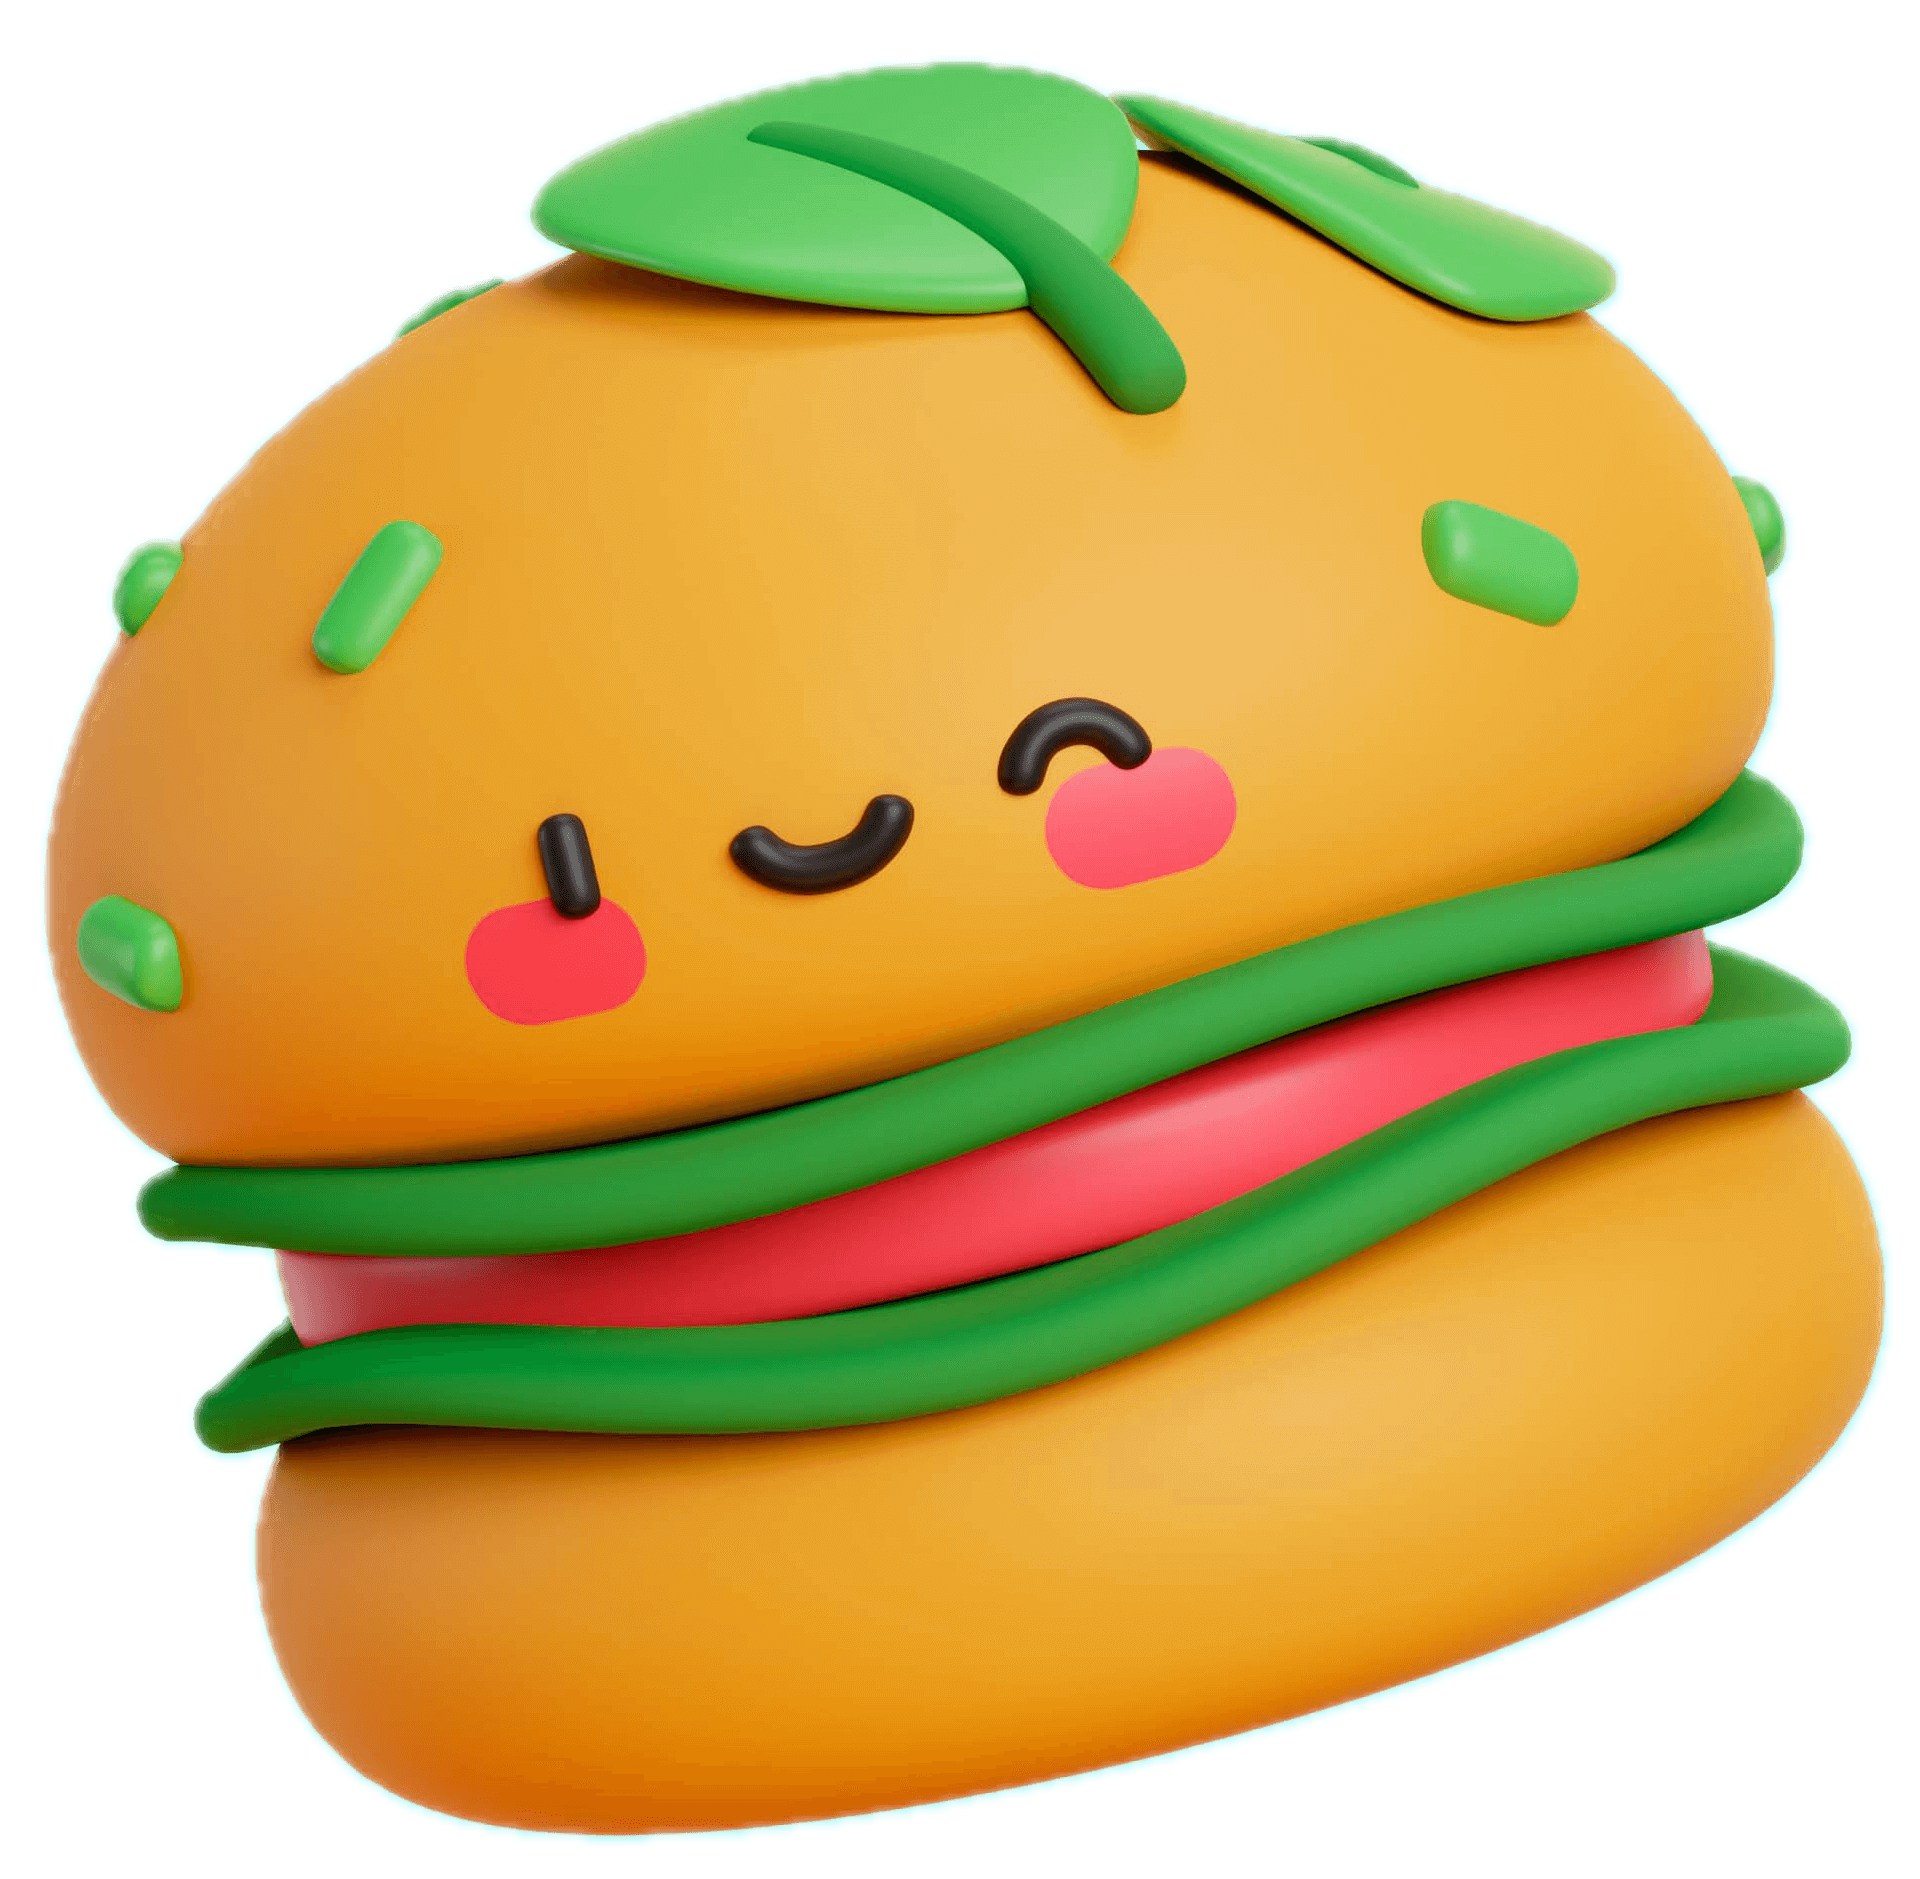
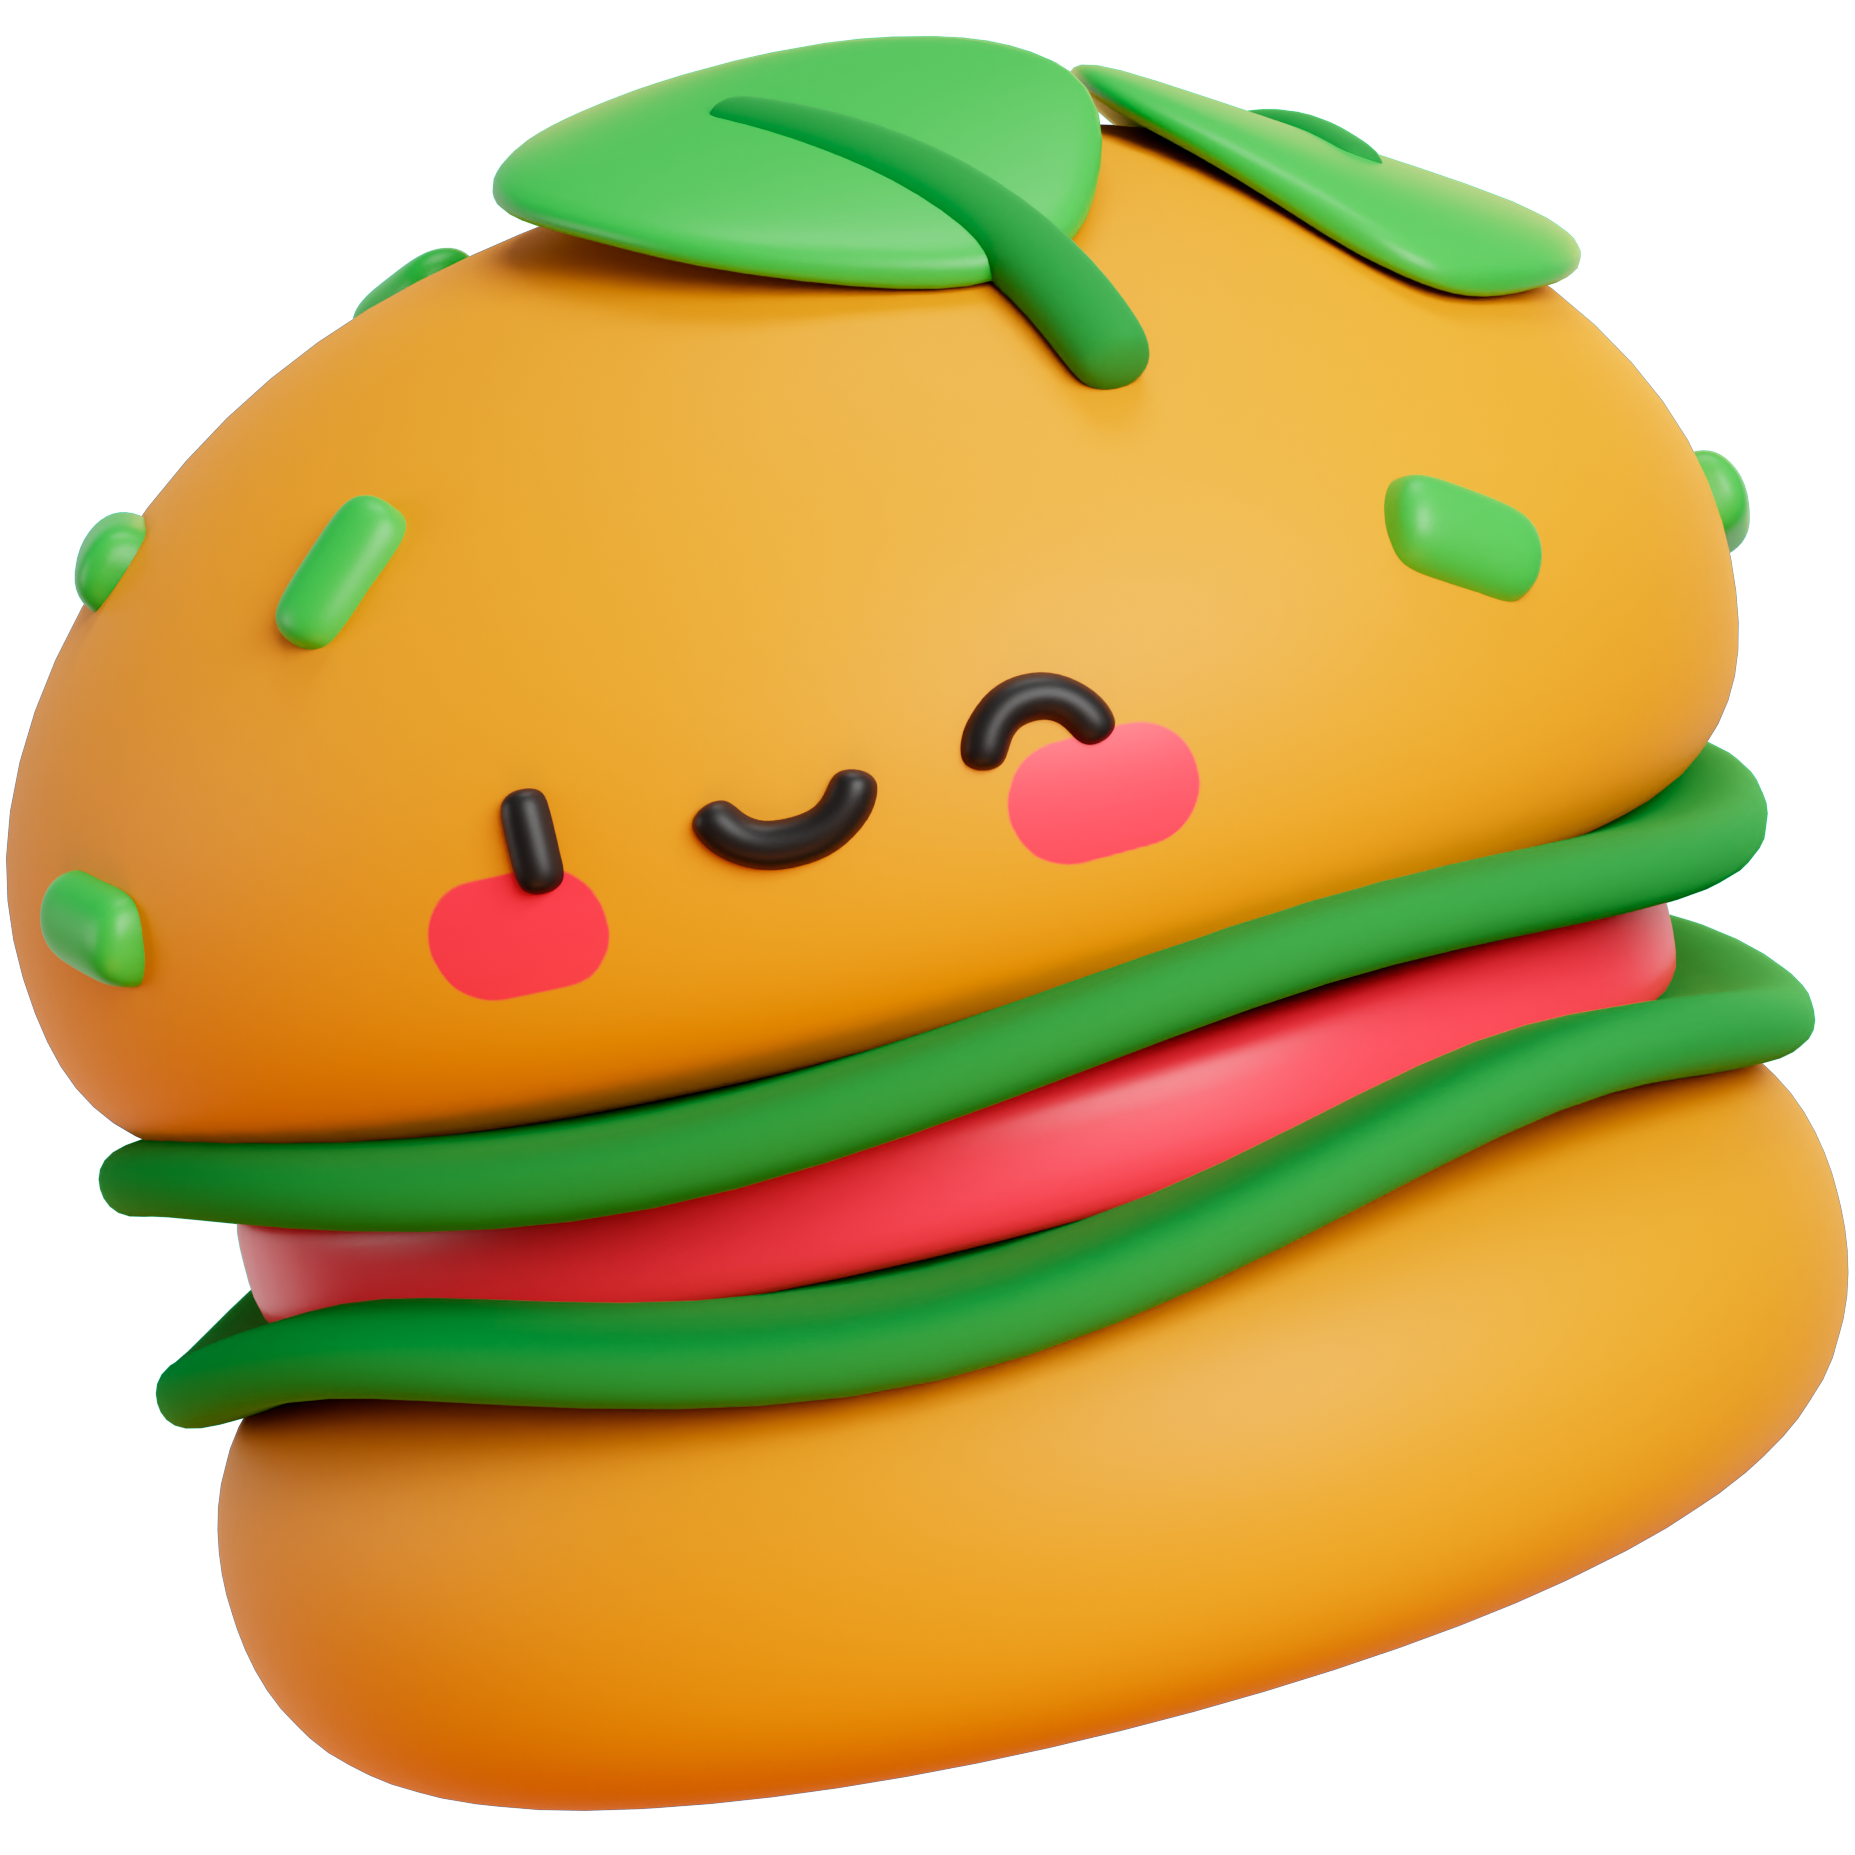
Day 39

diff --git a/src/features/recipes/recipes-banners/RecipesBanners.tsx b/src/features/recipes/recipes-banners/RecipesBanners.tsx
@@ -1,3 +1,94 @@
+import { Button } from "@/shared/components/ui/button";
+import { Plus, Utensils } from "lucide-react";
+import Image from "next/image";
+
+
 export function RecipesBanners() {
-    return <div>RecipesBanners</div>
+    return (
+        <div className="mb-5 grid grid-cols-[2.5fr_1fr] gap-5">
+            <div className="from-primary-dark to-primary relative rounded-3xl bg-linear-to-r px-8 py-4 text-white">
+                <div className="absolute -bottom-1 -left-6">
+                    <Image
+                        src="/emotions/burger.png"
+                        alt="Burger"
+                        width={170}
+                        height={140}
+                        className="h-auto w-[170px]"
+                        draggable={false}
+                        priority
+                    />
+                </div>
+
+                <div className="ml-[130px] flex items-start justify-between gap-6">
+                    <div className="min-w-0">
+                        <h2 className="text-4xl leading-none font-black tracking-[-0.02em] italic">Got a Recipe That Rocks?</h2>
+
+                        <p className="mt-2 text-sm text-white/80">
+                            Share It &amp; Shine! Your recipe might just become the next big hit!
+                        </p>
+
+                        <div className="mt-4 flex flex-wrap gap-2">
+                            {[
+                                'Gain Recognition',
+                                'Inspire Others',
+                                'Showcase Your Skills'
+                            ].map(item => (
+                                <span
+                                    key={item}
+                                    className="rounded-3xl bg-white/12 px-3 py-1 text-sm font-medium backdrop-blur-xs">{item}</span>
+                            ))}
+                        </div>
+                    </div>
+
+                    <Button
+                        type="button"
+                        variant="soft"
+                        className="shrink-0 rounded-3xl bg-white px-5 text-black hover:bg-white/90"
+                    >
+                        <Plus />
+                        Add Recipe        
+                    </Button>
+                </div>
+            </div>
+
+            <div className="flex flex-col justify-between rounded-3xl bg-white px-5 py-4">
+                <div className="flex items-center gap-2 font-semibold text-black text-lg">
+                    <Utensils
+                        size={20}
+                        className="opacity-60"
+                    />
+                    <span>Your Recipes</span>
+                </div>
+
+                <div className="mt-6 flex items-end justify-between gap-4">
+                    <div className="flex items-end gap-2">
+                        <span className="text-4xl leading-none font-black tracking-[-0.04em] italic">12</span>
+                        <span className="text-black/45">Created</span>
+                    </div>
+
+                    <div className="flex -space-x-3">
+                        {[
+                            '/images/default-avatar.png',
+                            '/images/default-avatar.png',
+                            '/images/default-avatar.png',
+                            '/images/default-avatar.png'
+                        ].map((src, index) => (
+                            <div
+                                key={src + index}
+                                className="relative size-9 overflow-hidden rounded-full border-2 border-white bg-white"
+                            >
+                                <Image
+                                    src={src}
+                                    alt={`Recipe author ${index + 1}`}
+                                    fill
+                                    className="object-cover"
+                                    draggable={false}
+                                />
+                            </div>
+                        ))}
+                    </div>
+                </div>
+            </div>
+        </div>
+    )
 }

diff --git a/src/features/recipes/RecipesDashboard.tsx b/src/features/recipes/RecipesDashboard.tsx
@@ -18,7 +18,7 @@ export function RecipesDashboard() {
     const debouncedSearchTerm = useDebounce(searchTerm, 300)
 
     return (
-        <div>
+        <div className="grid grid-cols-[1fr_4.5fr] gap-5">
             <RecipeSidebar
                 filter={filter}
                 debouncedSearchTerm={debouncedSearchTerm}
